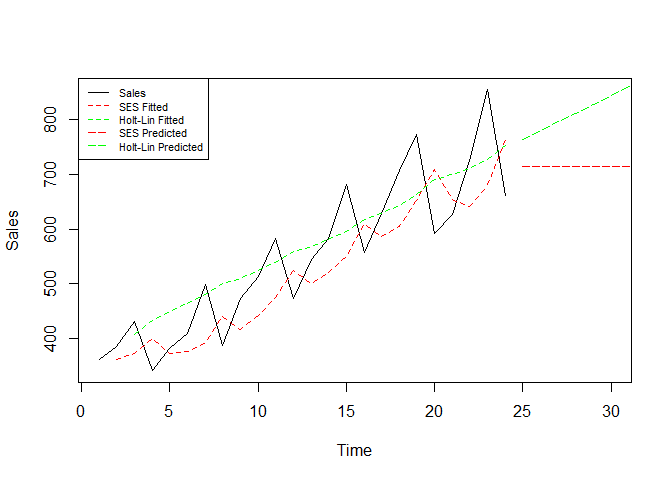
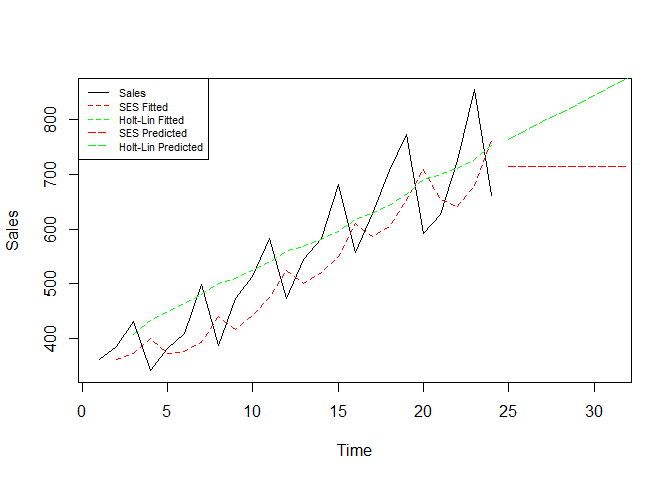
final commit

diff --git a/README.md b/README.md
@@ -16,50 +16,14 @@ gc() # garbage collection - It can be useful to call gc after a large object has
 ```
 
     ##           used (Mb) gc trigger (Mb) max used (Mb)
-    ## Ncells  531922 28.5    1189575 63.6   660402 35.3
-    ## Vcells 1007599  7.7    8388608 64.0  1769646 13.6
+    ## Ncells  531924 28.5    1189581 63.6   660402 35.3
+    ## Vcells 1007620  7.7    8388608 64.0  1769646 13.6
 
 ``` r
 library(tidyverse)
-```
-
-    ## Warning: package 'tidyverse' was built under R version 4.3.3
-
-    ## Warning: package 'ggplot2' was built under R version 4.3.3
-
-    ## Warning: package 'tibble' was built under R version 4.3.3
-
-    ## Warning: package 'tidyr' was built under R version 4.3.3
-
-    ## Warning: package 'readr' was built under R version 4.3.3
-
-    ## Warning: package 'purrr' was built under R version 4.3.3
-
-    ## Warning: package 'dplyr' was built under R version 4.3.3
-
-    ## Warning: package 'stringr' was built under R version 4.3.3
-
-    ## Warning: package 'forcats' was built under R version 4.3.3
-
-    ## Warning: package 'lubridate' was built under R version 4.3.3
-
-    ## ── Attaching core tidyverse packages ──────────────────────── tidyverse 2.0.0 ──
-    ## ✔ dplyr     1.1.4     ✔ readr     2.1.5
-    ## ✔ forcats   1.0.0     ✔ stringr   1.5.1
-    ## ✔ ggplot2   3.5.0     ✔ tibble    3.2.1
-    ## ✔ lubridate 1.9.3     ✔ tidyr     1.3.1
-    ## ✔ purrr     1.0.2     
-    ## ── Conflicts ────────────────────────────────────────── tidyverse_conflicts() ──
-    ## ✖ dplyr::filter() masks stats::filter()
-    ## ✖ dplyr::lag()    masks stats::lag()
-    ## ℹ Use the conflicted package (<http://conflicted.r-lib.org/>) to force all conflicts to become errors
-
-``` r
 list.files('code/', full.names = T, recursive = T) %>% .[grepl('.R', .)] %>% as.list() %>% walk(~source(.))
 library(readxl)
 ```
-
-    ## Warning: package 'readxl' was built under R version 4.3.3
 
 # Loading the Data
 
@@ -106,52 +70,8 @@ SES.Sales
 
 ``` r
 SES_Ft<-SES.Sales$fitted[,1]
-SES_Ft
-```
 
-    ## Time Series:
-    ## Start = 2 
-    ## End = 24 
-    ## Frequency = 1 
-    ##  [1] 362.0000 372.6778 400.2182 372.7261 377.0315 391.8729 441.1426 416.0068
-    ##  [9] 442.4660 475.2115 524.7883 501.2097 521.0752 549.3596 610.4739 585.6486
-    ## [17] 605.3103 652.5199 708.4530 654.3895 641.6739 680.3582 760.9717
 
-``` r
-SES.Sales$x
-```
-
-    ## Time Series:
-    ## Start = 1 
-    ## End = 24 
-    ## Frequency = 1 
-    ##       Sales
-    ##  [1,]   362
-    ##  [2,]   385
-    ##  [3,]   432
-    ##  [4,]   341
-    ##  [5,]   382
-    ##  [6,]   409
-    ##  [7,]   498
-    ##  [8,]   387
-    ##  [9,]   473
-    ## [10,]   513
-    ## [11,]   582
-    ## [12,]   474
-    ## [13,]   544
-    ## [14,]   582
-    ## [15,]   681
-    ## [16,]   557
-    ## [17,]   628
-    ## [18,]   707
-    ## [19,]   773
-    ## [20,]   592
-    ## [21,]   627
-    ## [22,]   725
-    ## [23,]   854
-    ## [24,]   661
-
-``` r
 error <- sales[2:24,] -as.numeric(SES_Ft)
 
 #--------------------------------------------------------------------
@@ -171,16 +91,12 @@ U_SES  <- sqrt(A/B)
 
 Performance_SES <- data.frame("ME"=ME_ses, "MAE"= MAE_ses, "MAPE"= MAPE_ses,
                                "MSE"= MSE_ses, "Theil-U"= U_SES)
-
+Forecast_ses <- predict(SES.Sales,n.ahead = 8)
 Performance_SES
 ```
 
     ##         ME     MAE     MAPE      MSE   Theil.U
     ## 1 39.07271 85.4829 13.18536 8849.347 0.9519815
-
-``` r
-Forecast_ses <- predict(SES.Sales,n.ahead = 8)
-```
 
 # Holt- Linear Method
 
@@ -206,40 +122,9 @@ Holt.Lin.Sales
 
 ``` r
 Holy_Ft<-Holt.Lin.Sales$fitted[,1]
-Holt.Lin.Sales$x
-```
 
-    ## Time Series:
-    ## Start = 1 
-    ## End = 24 
-    ## Frequency = 1 
-    ##       Sales
-    ##  [1,]   362
-    ##  [2,]   385
-    ##  [3,]   432
-    ##  [4,]   341
-    ##  [5,]   382
-    ##  [6,]   409
-    ##  [7,]   498
-    ##  [8,]   387
-    ##  [9,]   473
-    ## [10,]   513
-    ## [11,]   582
-    ## [12,]   474
-    ## [13,]   544
-    ## [14,]   582
-    ## [15,]   681
-    ## [16,]   557
-    ## [17,]   628
-    ## [18,]   707
-    ## [19,]   773
-    ## [20,]   592
-    ## [21,]   627
-    ## [22,]   725
-    ## [23,]   854
-    ## [24,]   661
 
-``` r
+
 Error_holt <- Holt.Lin.Sales$x - Holt.Lin.Sales$fitted[,1]
 
 ME_holt <- mean(Error_holt[8:22,])
@@ -270,7 +155,7 @@ Performance_Holt
 # Plotting the series and forecast: SES and Holt-Linear models
 
 ``` r
-plot(ts(sales),xlim=c(1,30))
+plot(ts(sales),xlim=c(1,31))
 lines(SES.Sales$fitted[,1],col="red",lty=2)
 lines(Holt.Lin.Sales$fitted[,1],col="green",lty=2)
 lines(Forecast_ses,col ="red",lty=5)
